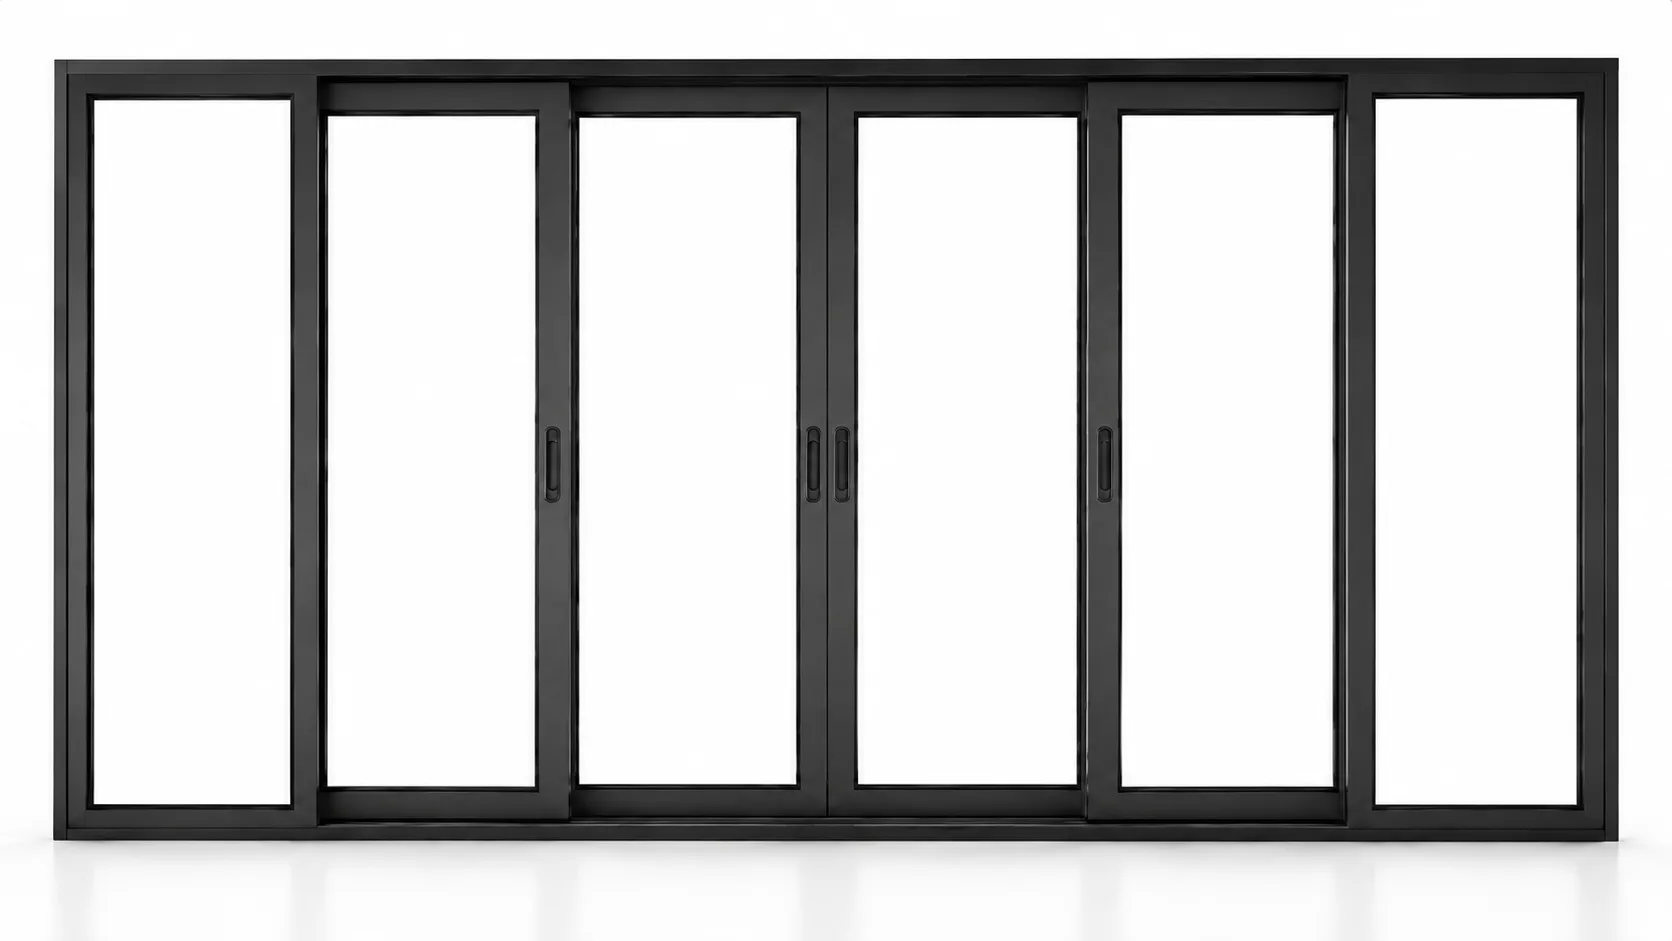
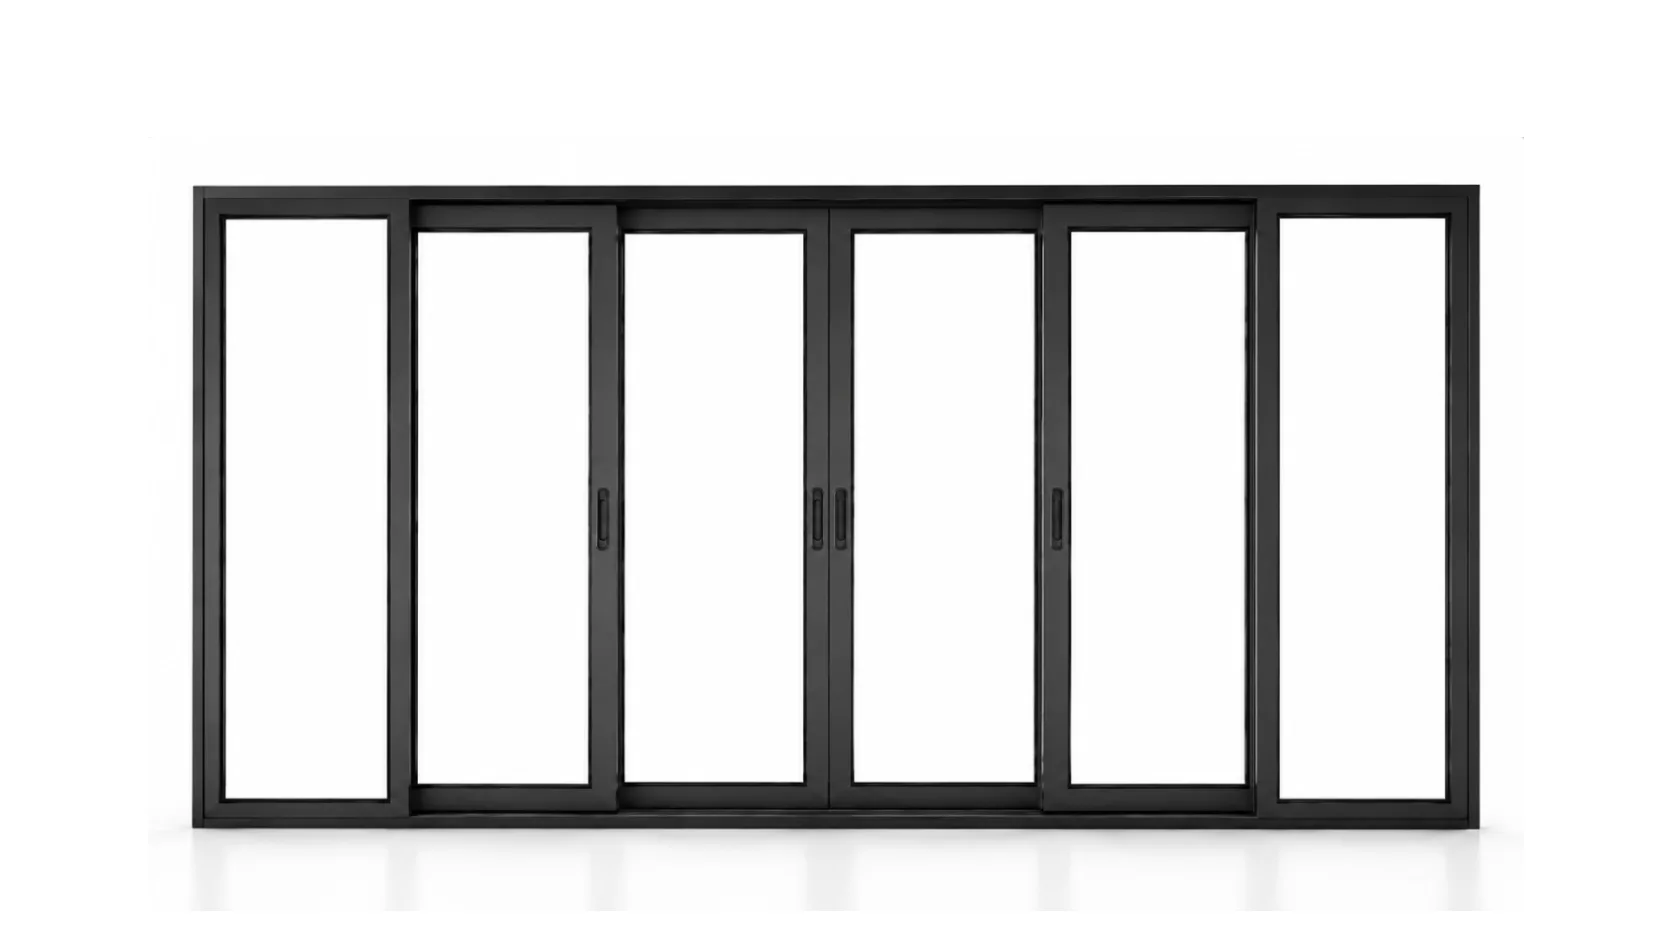
feat(products): new client renders for louvre and fixed & slide
Both cards were carrying renders that landed earlier today. The client
supplied replacements: same two products, sat smaller in the frame with
more margin around the unit.

The filenames do not move, so this is a pure asset swap — products.ts,
migrations 022/023, and AUG07_ASSET_REQUEST.md already point here and
need no edit, and there is no migration to apply. The cost of a stable
URL is that it caches: public/ ships through the Vite build unhashed,
so old copies survive at the edge until they expire.

Still renders, not photographs. The standing real-photography ask in
AUG07_ASSET_REQUEST.md is not closed by this.

diff --git a/docs/CHANGELOG.md b/docs/CHANGELOG.md
@@ -31,6 +31,17 @@ Keep entries concise — one line per change, written in past tense, focused on 
 >
 > The "rename `[Unreleased]` to a dated heading on deploy" ritual described above has not been followed since April, so this one section now spans four months and many deploys. That is a bookkeeping drift, not a claim that any of it is unshipped — the site auto-deploys on every push to `main`, so entries are live within minutes of landing. Either cut dated headings per deploy from here on, or drop the `[Unreleased]` convention in favour of the dated `### Session:` headings that are actually being maintained.
 
+### Session: 2026-08-12 (fifth) — two cards get new pictures
+
+#### Changed
+
+- **Louvre Windows and Fixed & Slide Door carry new client-supplied renders**, replacing the ones that landed earlier the same day. Same products, shot smaller in the frame with more margin around the unit. Client instruction. `public/images/products/render/louvre.webp`, `public/images/products/render/fixed-slide-door.webp`.
+
+#### Notes
+
+- **No migration and no code change, because the filenames did not move.** `products.ts`, migrations `022`/`023`, and `AUG07_ASSET_REQUEST.md` all already point at these two paths, so overwriting the bytes was the whole change. The tradeoff is that a stable URL is a cacheable URL: `public/` is copied through the Vite build without content hashing, so anyone holding the old image — browser or CDN edge — keeps it until that cache expires. Hard-refresh before judging the deploy.
+- These remain **renders, not photographs**, on the same approved-exception footing as the rest of `render/`. ROADMAP item 20 records the general rejection of white-bg renders; these specific images are the client's own. The real-photography ask in `AUG07_ASSET_REQUEST.md` is untouched by this swap.
+
 ### Session: 2026-08-12 (fourth) — the new doors open on hover
 
 #### Added
